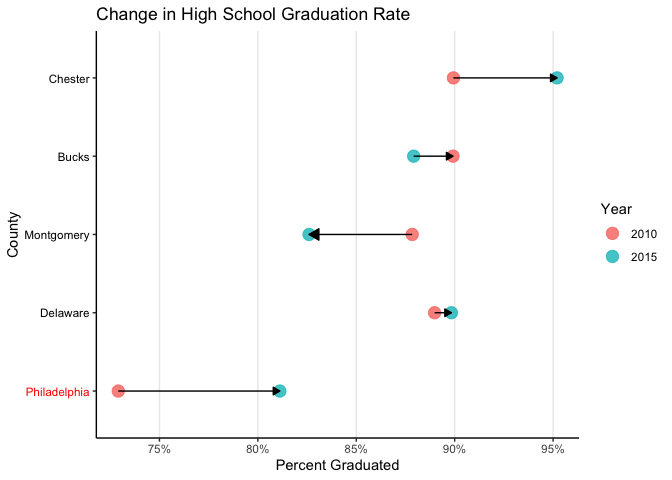
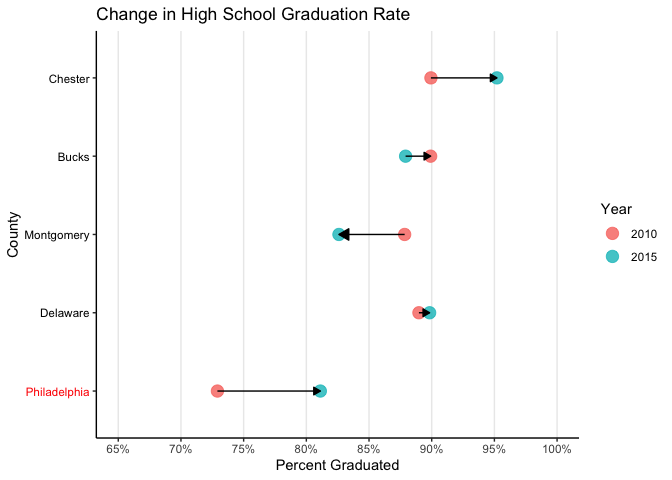
updated Philly grad rates md file

diff --git a/2. Graph Creation/Philly/Philly-Final-Graphs.md b/2. Graph Creation/Philly/Philly-Final-Graphs.md
@@ -396,6 +396,7 @@ ggplot() +
   theme(panel.grid.major.x=element_line(), axis.text.y = element_text(colour = text_color))+
   scale_x_continuous(
             breaks=seq(50, 100, 5),
+            limits = c(65,100),
             labels = function(x){paste0(x*1, '%')}
             )
 ```
